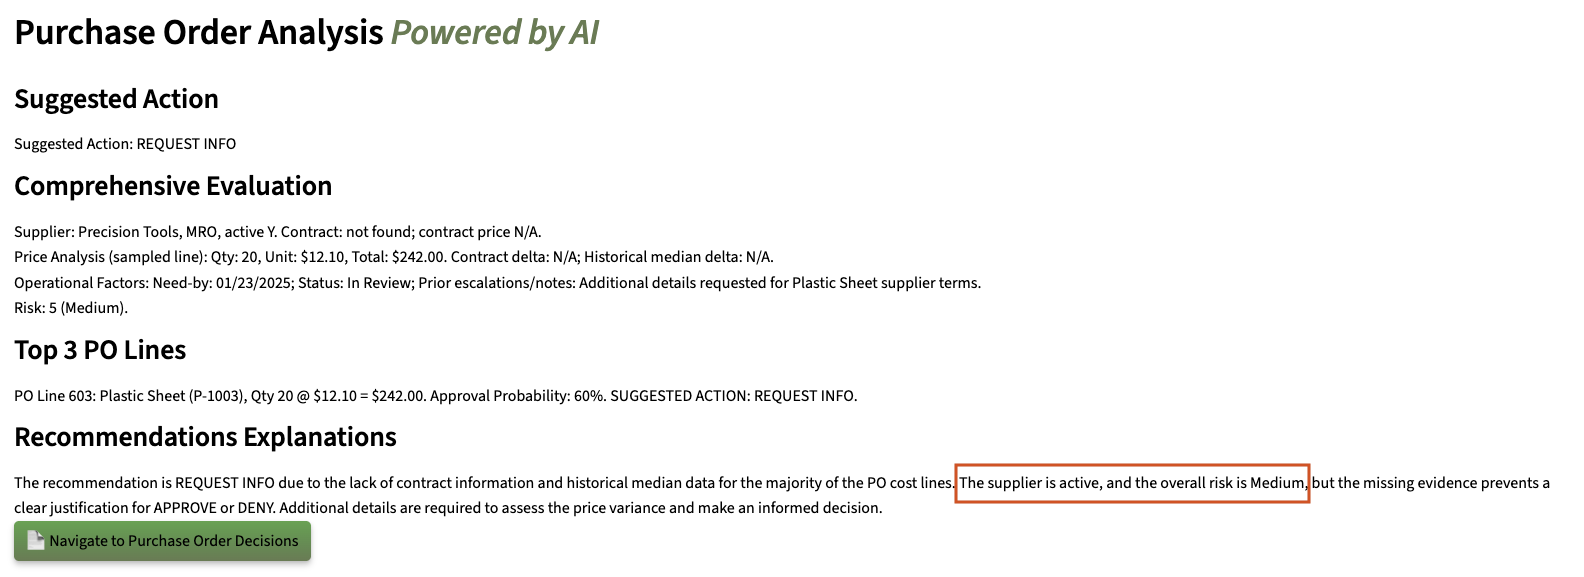
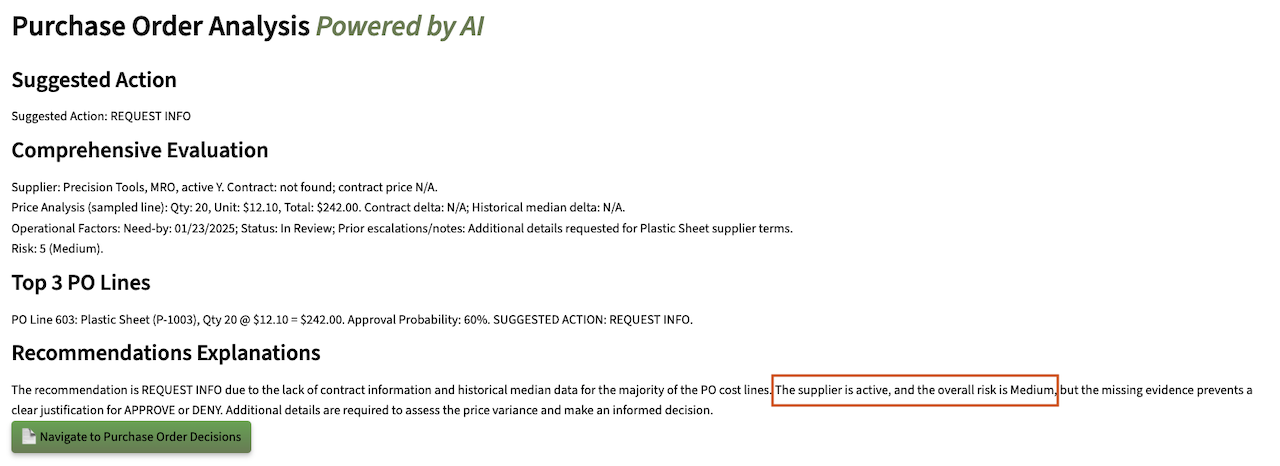
fixing formatting issues

diff --git a/dev-ai-app-dev-finance-aiexperience/user-story/user-story.md b/dev-ai-app-dev-finance-aiexperience/user-story/user-story.md
@@ -59,7 +59,7 @@ In this first example, you will use the application to approve a customer with s
 
     ![James Smith chatbot](./images/lab105.png =50%x*)
 
->💡 In Oracle AI Database, **AI Vector Search** allows you to combine your business data with the Large Language Model (LLM) to reduce hallucinations and get accurate answers from your data.
+    >💡 In Oracle AI Database, **AI Vector Search** allows you to combine your business data with the Large Language Model (LLM) to reduce hallucinations and get accurate answers from your data.
 
 4. Select the **Navigate To Customer Decisions** button.
 
@@ -83,11 +83,11 @@ In this first example, you will use the application to approve a customer with s
 
     ![James Smith Save Loan Status](./images/james-smith-save.png =50%x*)
 
-8.  Click the **Download Decision PDF** button.
+8. Click the **Download Decision PDF** button.
 
     ![James Smith Download Recommendation](./images/james-smith-download.png =50%x*)
 
-9.  Click **Download PDF**
+9. Click **Download PDF**
 
     ![James Smith Download PDF](./images/james-smith-download-pdf.png =50%x*)
 
@@ -138,7 +138,7 @@ In this example, you will navigate the application to review a customer and deny
 
     ![James Woods Decision](./images/lab133.png =50%x*)
 
->⁉️ **What is the reason that the AI decided to deny this applicant?** ⁉️
+    >⁉️ **What is the reason that the AI decided to deny this applicant?** ⁉️
 
 
 4. Expand **Interactive Graph: Client-Loan Relationships** to view the graph.
@@ -151,7 +151,7 @@ In this example, you will navigate the application to review a customer and deny
 
     This graph reveals that while James Woods was denied for his requested loan, he is close to qualifying for a different product. Instead of a hard stop (“Denied – end of story”), the graph highlights a path forward
 
->💡 In Oracle AI Database, **Property Graph** allows you to treat your data like a network of connected points, where each point (called a node) and each link (called an edge) has its own details or properties. This setup helps you run graph analytics, like finding important connections or patterns, directly within the database.
+    >💡 In Oracle AI Database, **Property Graph** allows you to treat your data like a network of connected points, where each point (called a node) and each link (called an edge) has its own details or properties. This setup helps you run graph analytics, like finding important connections or patterns, directly within the database.
 
 5. The loan status is set to **Denied**. Click the **Confirm decision** button.
 
@@ -175,7 +175,7 @@ In this example, you will navigate the application to review a customer and deny
 
     ![Return to Dashboard](./images/woods-decision2.png =50%x*)
 
-10.  Expand **View Denied Customers**. You will see that James Woods has been moved from the **Pending Review Loan Requests** list to the **Denied Loan Requests** section.
+10. Expand **View Denied Customers**. You will see that James Woods has been moved from the **Pending Review Loan Requests** list to the **Denied Loan Requests** section.
 
     ![James Woods Denied List](./images/woods-decision3.png =50%x*)
 
@@ -199,7 +199,7 @@ Lastly, let’s explore how the system uses JSON Duality Views to handle profile
 
     ![Click Process Selected PDF](./images/upload-anderson.png =50%x*)
 
->💡 **JSON Duality Views** let's you update unstructured data in an easy, high-level format while automatically handling the technical details behind the scenes. This makes it faster and simpler to work with messy data and connect it to structured systems.
+    >💡 **JSON Duality Views** let's you update unstructured data in an easy, high-level format while automatically handling the technical details behind the scenes. This makes it faster and simpler to work with messy data and connect it to structured systems.
 
 4. The customer profile has been updated.
 